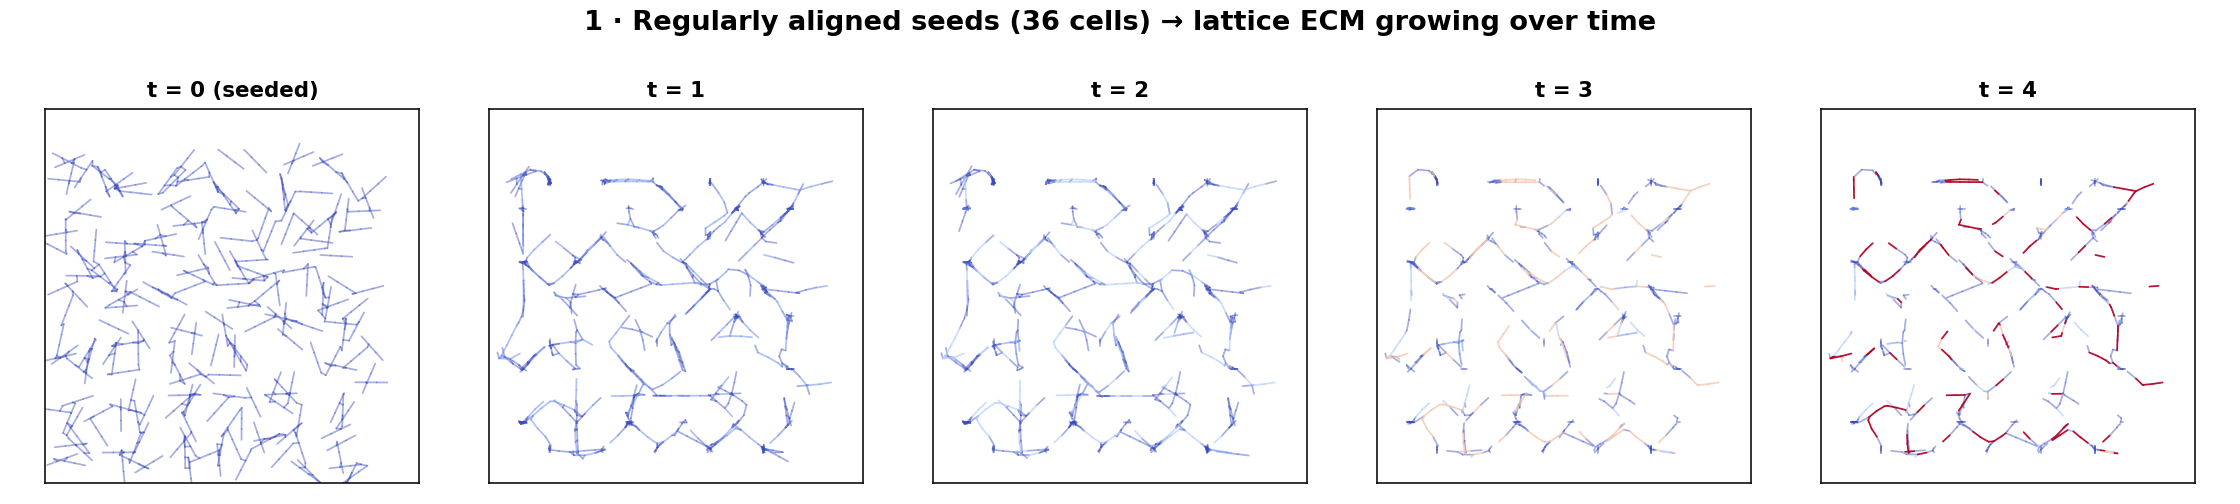
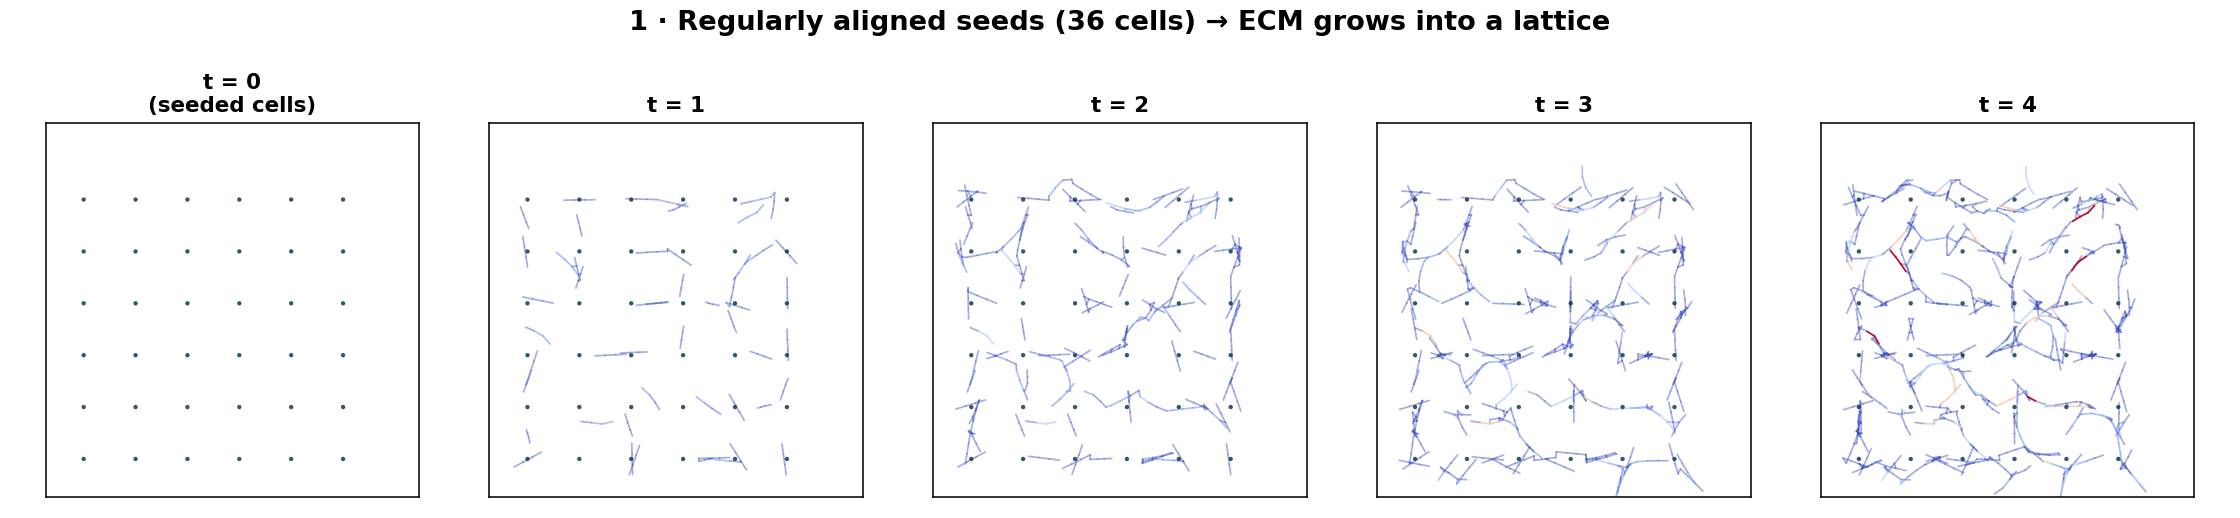
Pattern growth: t=0 shows seeded cells only; ECM secreted gradually over time
Fixes the two issues: previously all ECM existed at t=0 and the seeding was
hidden. Now cells secrete ECM progressively.

- ecm_mechanics.build_deposited_network(return_birth=True): assigns each fiber a
  random secretion time.
- ecm_remodel.grow_and_remodel: at t=0 only cells exist; each step reveals the
  fibers born so far, relaxes the active sub-network, and reinforces it (plastic
  state persists). Returns frames (None at t=0 = cells only).
- seeding.text_points: rasterize text (e.g. a lab name) and seed cells on the
  glyphs.
- run_patterns.py: every frame draws the seeded cells as dots; studies are a
  regular grid, geometric shapes (circle/triangle/square), and the REZA ABDI LAB
  text pattern, each growing ECM from cells-only over time.

diff --git a/ecm-remodel3d/run_patterns.py b/ecm-remodel3d/run_patterns.py
@@ -1,15 +1,16 @@
 #!/usr/bin/env python3
-"""Grow ECM into a chosen cell-seeding pattern, over time.
+"""Grow ECM into a chosen cell-seeding pattern, OVER TIME (cells secrete it).
 
-Seed cells along any geometric pattern; they deposit collagen locally and then
-contract/reinforce it, so over time the ECM matures into that pattern (a faint
-diffuse matrix → sharp reinforced struts along the design). Three studies:
+t = 0 shows only the SEEDED CELLS (how you laid them down); then the cells
+secrete collagen gradually and contract it, so the ECM grows into the pattern.
+Three studies:
 
-  1. patterns_grid.png      regularly aligned seeds → a lattice ECM, over time
+  1. patterns_grid.png      regularly aligned seeds → a lattice ECM
   2. patterns_shapes.png    circle / triangle / square outlines → shaped ECM
-  3. patterns_complex.png   a complex geometric motif (honeycomb) → ECM
+  3. patterns_text.png      a text pattern ("REZA ABDI LAB") → ECM in that shape
 
-Light mode, continuous blue→red reinforcement colour, constant line width.
+Light mode, continuous blue→red reinforcement colour, constant line width;
+seeded cells drawn as dark dots at every frame.
 
   python run_patterns.py    →  output_patterns/figures/
 """
@@ -32,46 +33,52 @@ DOMAIN, Z = 240.0, 120.0
 c = DOMAIN / 2
 CMAP = "coolwarm"
 
-P = mech.MechParams(reach=22, reach_decay=14, planar=True, traction=1.5, max_iter=1100)
-RP = rem.RemodelParams(n_steps=4, compaction=0.06, reinforce_rate=0.36,
+P = mech.MechParams(reach=20, reach_decay=13, planar=True, traction=1.5, max_iter=1100)
+RP = rem.RemodelParams(n_steps=4, compaction=0.06, reinforce_rate=0.4,
                        reinforce_pct=58, slack_pct=34, slack_steps=2)
+N_STEPS = 4   # growth steps (montage columns = N_STEPS + 1, incl. t=0 cells-only)
 
 
-def timecourse(cells, fibers_per_cell=5, secretion_radius=15.0):
-    net0 = mech.build_deposited_network(cells, DOMAIN, fibers_per_cell=fibers_per_cell,
-                                        secretion_radius=secretion_radius,
-                                        crosslink_dist=3.6, z=Z, seed=3)
-    frames, _ = rem.remodel(net0, cells, P, RP)
-    seq = [net0] + [f["net"] for f in frames]
-    vmax = max(max(n.k_scale.max() for n in seq), 1.6)
-    return seq, vmax
+def grow(cells, fibers_per_cell=5, secretion_radius=14.0, crosslink_dist=3.6,
+         p_mech=None, p_rem=None):
+    net_full, birth = mech.build_deposited_network(
+        cells, DOMAIN, fibers_per_cell=fibers_per_cell, secretion_radius=secretion_radius,
+        crosslink_dist=crosslink_dist, z=Z, seed=3, return_birth=True)
+    frames = rem.grow_and_remodel(net_full, birth, cells, p_mech or P, p_rem or RP,
+                                  n_steps=N_STEPS)
+    vmax = max([f.k_scale.max() for f in frames if f is not None] + [1.6])
+    return frames, vmax
 
 
-def montage(seq, vmax, axes, row=None):
-    n = len(seq)
-    cols = np.linspace(0, n - 1, axes.shape[-1] if axes.ndim > 1 else len(axes), dtype=int)
-    row_axes = axes[row] if row is not None else axes
-    for ax, ci in zip(row_axes, cols):
-        render.draw_network(ax, seq[ci], theme="light", cmap=CMAP, lw=0.9,
-                            vmax=vmax, show_cells=False)
-        ax.set_xlim(15, DOMAIN - 15); ax.set_ylim(15, DOMAIN - 15)
-        if row in (None, 0):
-            ax.set_title("t = 0 (seeded)" if ci == 0 else f"t = {ci}",
-                         fontsize=11, fontweight="bold")
-    return cols
+def draw_frame(ax, frame, cells, vmax, title=None):
+    ax.set_facecolor("white")
+    if frame is not None:
+        render.draw_network(ax, frame, theme="light", cmap=CMAP, lw=0.9, vmax=vmax,
+                            show_cells=False)
+    ax.scatter(cells[:, 0], cells[:, 1], s=5, c="#0d3b4f", alpha=0.85, zorder=6,
+               edgecolors="none")
+    ax.set_xlim(12, DOMAIN - 12); ax.set_ylim(12, DOMAIN - 12)
+    ax.set_aspect("equal"); ax.set_xticks([]); ax.set_yticks([])
+    if title:
+        ax.set_title(title, fontsize=11, fontweight="bold")
+
+
+def montage_row(axes_row, frames, cells, vmax, header=False):
+    for j, (ax, frame) in enumerate(zip(axes_row, frames)):
+        title = ("t = 0\n(seeded cells)" if j == 0 else f"t = {j}") if header else None
+        draw_frame(ax, frame, cells, vmax, title)
 
 
 def study_grid():
     print("[1/3] regular aligned grid …")
     cells = seeding.grid_lattice(DOMAIN, spacing=30, margin=34, z=Z)
-    seq, vmax = timecourse(cells, fibers_per_cell=6, secretion_radius=17)
-    fig, axes = plt.subplots(1, 5, figsize=(16, 3.6))
-    montage(seq, vmax, axes)
-    fig.suptitle(f"1 · Regularly aligned seeds ({len(cells)} cells) → lattice ECM growing over time",
+    frames, vmax = grow(cells, fibers_per_cell=6, secretion_radius=17)
+    fig, axes = plt.subplots(1, N_STEPS + 1, figsize=(16, 3.7))
+    montage_row(axes, frames, cells, vmax, header=True)
+    fig.suptitle(f"1 · Regularly aligned seeds ({len(cells)} cells) → ECM grows into a lattice",
                  fontweight="bold", fontsize=14)
-    fig.tight_layout(rect=[0, 0, 1, 0.92])
-    fig.savefig(os.path.join(FIG, "patterns_grid.png"), dpi=140)
-    plt.close(fig)
+    fig.tight_layout(rect=[0, 0, 1, 0.9])
+    fig.savefig(os.path.join(FIG, "patterns_grid.png"), dpi=140); plt.close(fig)
 
 
 def study_shapes():
@@ -81,39 +88,42 @@ def study_shapes():
         "triangle": seeding.polygon_outline([c, c, Z], r=74, n_sides=3, per_side=22, rotation=np.pi/2, seed=1),
         "square": seeding.polygon_outline([c, c, Z], r=76, n_sides=4, per_side=18, rotation=np.pi/4, seed=1),
     }
-    fig, axes = plt.subplots(3, 5, figsize=(16, 10))
+    fig, axes = plt.subplots(3, N_STEPS + 1, figsize=(16, 10))
     for r, (name, cells) in enumerate(shapes.items()):
         print(f"      {name}: {len(cells)} cells")
-        seq, vmax = timecourse(cells)
-        montage(seq, vmax, axes, row=r)
+        frames, vmax = grow(cells)
+        montage_row(axes[r], frames, cells, vmax, header=(r == 0))
         axes[r, 0].set_ylabel(name, fontsize=13, fontweight="bold")
     fig.suptitle("2 · Geometric seeding patterns → ECM grows into the shape over time",
                  fontweight="bold", fontsize=14)
     fig.tight_layout(rect=[0, 0, 1, 0.95])
-    fig.savefig(os.path.join(FIG, "patterns_shapes.png"), dpi=135)
-    plt.close(fig)
+    fig.savefig(os.path.join(FIG, "patterns_shapes.png"), dpi=135); plt.close(fig)
 
 
-def study_complex():
-    print("[3/3] complex geometric motif (honeycomb) …")
-    segs = seeding.hex_lattice_segments(DOMAIN, a=30, margin=30)
-    cells = seeding.along_segments(segs, spacing=10, z=Z, jitter=1.4, seed=1)
-    print(f"      {len(cells)} cells, {len(segs)} edges")
-    seq, vmax = timecourse(cells, fibers_per_cell=4, secretion_radius=13)
-    fig, axes = plt.subplots(1, 5, figsize=(16, 3.8))
-    montage(seq, vmax, axes)
-    fig.suptitle(f"3 · Complex geometric pattern ({len(cells)} cells) → ECM grows into the motif",
+def study_text():
+    print("[3/3] text pattern (REZA ABDI LAB) …")
+    cells = seeding.text_points(["REZA", "ABDI", "LAB"], domain=DOMAIN, n=320, z=Z,
+                                fontsize=58, seed=1)
+    print(f"      {len(cells)} cells")
+    # gentle, LOCAL traction so the matrix stays on the glyphs (no clumping)
+    p_text = mech.MechParams(reach=13, reach_decay=9, planar=True, traction=1.1, max_iter=1000)
+    rp_text = rem.RemodelParams(n_steps=4, compaction=0.04, reinforce_rate=0.4,
+                                reinforce_pct=55, slack_pct=30, slack_steps=2)
+    frames, vmax = grow(cells, fibers_per_cell=2, secretion_radius=8, crosslink_dist=2.4,
+                        p_mech=p_text, p_rem=rp_text)
+    fig, axes = plt.subplots(1, N_STEPS + 1, figsize=(16, 4.4))
+    montage_row(axes, frames, cells, vmax, header=True)
+    fig.suptitle("3 · Custom pattern (REZA ABDI LAB) → ECM grows into the design",
                  fontweight="bold", fontsize=14)
-    fig.tight_layout(rect=[0, 0, 1, 0.92])
-    fig.savefig(os.path.join(FIG, "patterns_complex.png"), dpi=140)
-    plt.close(fig)
+    fig.tight_layout(rect=[0, 0, 1, 0.9])
+    fig.savefig(os.path.join(FIG, "patterns_text.png"), dpi=140); plt.close(fig)
 
 
 def main():
     os.makedirs(FIG, exist_ok=True)
     study_grid()
     study_shapes()
-    study_complex()
+    study_text()
     print("done. figures in", FIG)
 
 

diff --git a/ecm-remodel3d/ecm_pipeline/ecm_mechanics.py b/ecm-remodel3d/ecm_pipeline/ecm_mechanics.py
@@ -198,7 +198,8 @@ def _crosslink_edges(nodes, edges, states, cell):
 
 def build_deposited_network(cells, domain, fibers_per_cell=16, secretion_radius=26.0,
                             fiber_len=18.0, seg_len=6.0, crosslink_dist=4.2,
-                            z=None, anchor_margin=8.0, adhesion_frac=0.05, seed=0):
+                            z=None, anchor_margin=8.0, adhesion_frac=0.05, seed=0,
+                            return_birth=False):
     """Cells secrete ECM locally: each cell deposits short fibers around itself.
 
     Cell-free regions stay empty, so the pore size is set by how the cells are
@@ -206,12 +207,17 @@ def build_deposited_network(cells, domain, fibers_per_cell=16, secretion_radius=
     filled, fine network. A few nodes are pinned (`adhesion_frac`) to represent
     ECM/cell adhesion to the cured GelMA, so later contraction condenses the
     matrix into struts instead of collapsing it.
+
+    If `return_birth`, also returns a per-edge `birth_frac` in [0,1) (a random
+    secretion time per fiber) so a caller can reveal the ECM gradually over time.
     """
     rng = np.random.default_rng(seed)
     nodes, edges, bends, states = [], [], [], []
+    node_birth = []
     for cell in np.asarray(cells, dtype=float):
         cz = cell[2] if z is None else z
         for _ in range(fibers_per_cell):
+            fiber_birth = rng.random()
             rr = secretion_radius * np.sqrt(rng.random())
             th = rng.uniform(0, 2 * np.pi)
             center = np.array([cell[0] + rr * np.cos(th), cell[1] + rr * np.sin(th), cz])
@@ -224,12 +230,14 @@ def build_deposited_network(cells, domain, fibers_per_cell=16, secretion_radius=
             pts[:, 2] = cz
             base = len(nodes)
             nodes.extend(pts.tolist())
+            node_birth.extend([fiber_birth] * len(pts))
             for i in range(len(pts) - 1):
                 edges.append((base + i, base + i + 1)); states.append("mature")
             for i in range(1, len(pts) - 1):
                 bends.append((base + i - 1, base + i, base + i + 1))
 
     nodes = np.array(nodes)
+    n_fiber_edges = len(edges)
     edges, states = _crosslink_edges(nodes, edges, states, crosslink_dist)
     edges = np.array(edges)
     rest = np.maximum(np.linalg.norm(nodes[edges[:, 0]] - nodes[edges[:, 1]], axis=1), 1e-3)
@@ -239,8 +247,14 @@ def build_deposited_network(cells, domain, fibers_per_cell=16, secretion_radius=
     if adhesion_frac > 0:                       # sparse gel-adhesion anchors
         extra = rng.random(len(nodes)) < adhesion_frac
         fixed = fixed | extra
-    return FiberNetwork(nodes=nodes, edges=edges, rest_length=rest, bends=bends,
-                        fixed=fixed, state=np.array(states, dtype=object))
+    net = FiberNetwork(nodes=nodes, edges=edges, rest_length=rest, bends=bends,
+                       fixed=fixed, state=np.array(states, dtype=object))
+    if return_birth:
+        node_birth = np.array(node_birth)
+        # an edge appears once both its endpoints' fibers have been secreted
+        birth = np.maximum(node_birth[edges[:, 0]], node_birth[edges[:, 1]])
+        return net, birth
+    return net
 
 
 def from_growth_frame(frame, domain, anchor_margin=8.0):

diff --git a/ecm-remodel3d/ecm_pipeline/ecm_remodel.py b/ecm-remodel3d/ecm_pipeline/ecm_remodel.py
@@ -109,6 +109,63 @@ def remodel(net0: mech.FiberNetwork, cells: np.ndarray,
     return frames, net
 
 
+def grow_and_remodel(net_full: mech.FiberNetwork, birth: np.ndarray, cells: np.ndarray,
+                     p_mech: mech.MechParams | None = None,
+                     p_rem: "RemodelParams | None" = None, n_steps: int = 6):
+    """Reveal ECM gradually (by per-edge `birth` time) and remodel it each step.
+
+    Models cells SECRETING ECM over time: at t=0 only the cells exist; each step a
+    new fraction of fibers has been deposited, and the active network is relaxed
+    and reinforced. Returns a list of frames (FiberNetwork or None for the empty
+    t=0). Reinforcement/compaction persist across steps (plastic memory).
+    """
+    p_mech = p_mech or mech.MechParams()
+    p_rem = p_rem or RemodelParams()
+    nodes = net_full.nodes.copy()
+    edges = net_full.edges
+    rest0 = net_full.rest_length.copy()
+    rest = rest0.copy()
+    kscale = np.ones(len(edges))
+    bends_full = net_full.bends
+    frames = [None]                                   # t=0 → cells only
+
+    for thr in np.linspace(0, 1, n_steps + 1)[1:]:
+        active = birth <= thr
+        if active.sum() < 2:
+            frames.append(None)
+            continue
+        used = np.unique(edges[active].ravel())
+        remap = -np.ones(len(nodes), int)
+        remap[used] = np.arange(len(used))
+        sub_edges = remap[edges[active]]
+        if len(bends_full):
+            bmask = np.all(np.isin(bends_full, used), axis=1)
+            sub_bends = remap[bends_full[bmask]]
+        else:
+            sub_bends = np.zeros((0, 3), int)
+        sub = mech.FiberNetwork(nodes[used], sub_edges, rest[active], sub_bends,
+                                net_full.fixed[used], net_full.state[active], kscale[active])
+        sub, _ = mech.relax(sub, cells, p_mech)
+        nodes[used] = sub.nodes
+
+        _, tension, _ = mech.compute_forces(sub, cells, p_mech)
+        pos_t = tension[tension > 0]
+        hi = np.percentile(pos_t, p_rem.reinforce_pct) if len(pos_t) else np.inf
+        ks = sub.k_scale.copy()
+        rs = sub.rest_length.copy()
+        loaded = tension >= hi
+        ks[loaded] = np.minimum(ks[loaded] * (1 + p_rem.reinforce_rate), p_rem.max_k_scale)
+        rs[loaded] = np.maximum(rs[loaded] * (1 - p_rem.compaction),
+                                rest0[active][loaded] * p_rem.min_rest_frac)
+        kscale[active] = ks
+        rest[active] = rs
+
+        frames.append(mech.FiberNetwork(sub.nodes.copy(), sub.edges.copy(), rs.copy(),
+                                        sub_bends.copy(), net_full.fixed[used].copy(),
+                                        net_full.state[active].copy(), ks.copy()))
+    return frames
+
+
 def _filter_edges(net: mech.FiberNetwork, keep: np.ndarray) -> mech.FiberNetwork:
     """Return a network with only the kept edges (bends referencing dropped
     edges are conservatively retained — they reference nodes, not edges)."""

diff --git a/ecm-remodel3d/ecm_pipeline/seeding.py b/ecm-remodel3d/ecm_pipeline/seeding.py
@@ -166,6 +166,37 @@ def grid_lattice(domain, spacing=34.0, margin=30.0, z=110.0, jitter=0.0, seed=0)
     return np.array(pts)
 
 
+def text_points(lines, domain=240.0, n=420, z=110.0, fontsize=46, pad=0.12, seed=0):
+    """Seed cells on the glyphs of text (e.g. a lab name) by rasterizing it.
+
+    Pass a list of lines, e.g. ["REZA", "ABDI", "LAB"]. Returns cell positions
+    sampled on the dark text pixels, scaled into the domain.
+    """
+    import matplotlib.pyplot as plt
+    from matplotlib.backends.backend_agg import FigureCanvasAgg
+
+    fig = plt.figure(figsize=(4, 4), dpi=110)
+    fig.patch.set_facecolor("white")
+    ax = fig.add_axes([0, 0, 1, 1]); ax.axis("off")
+    ax.set_xlim(0, 1); ax.set_ylim(0, 1)
+    ax.text(0.5, 0.5, "\n".join(lines), ha="center", va="center",
+            fontsize=fontsize, fontweight="bold", family="sans-serif")
+    canvas = FigureCanvasAgg(fig); canvas.draw()
+    buf = np.asarray(canvas.buffer_rgba())
+    plt.close(fig)
+
+    gray = buf[..., :3].mean(2)
+    ys, xs = np.where(gray < 110)              # dark glyph pixels (row, col)
+    if len(xs) == 0:
+        return np.zeros((0, 3))
+    H, W = gray.shape
+    rng = np.random.default_rng(seed)
+    idx = rng.choice(len(xs), size=min(n, len(xs)), replace=False)
+    X = pad * domain + (xs[idx] / W) * (1 - 2 * pad) * domain
+    Y = pad * domain + (1 - ys[idx] / H) * (1 - 2 * pad) * domain   # flip y
+    return np.column_stack([X, Y, np.full(len(idx), z)])
+
+
 def hex_lattice_segments(domain, a=34.0, margin=24.0):
     """Honeycomb (hex) lattice edges — a complex repeating geometric motif."""
     segs = []
